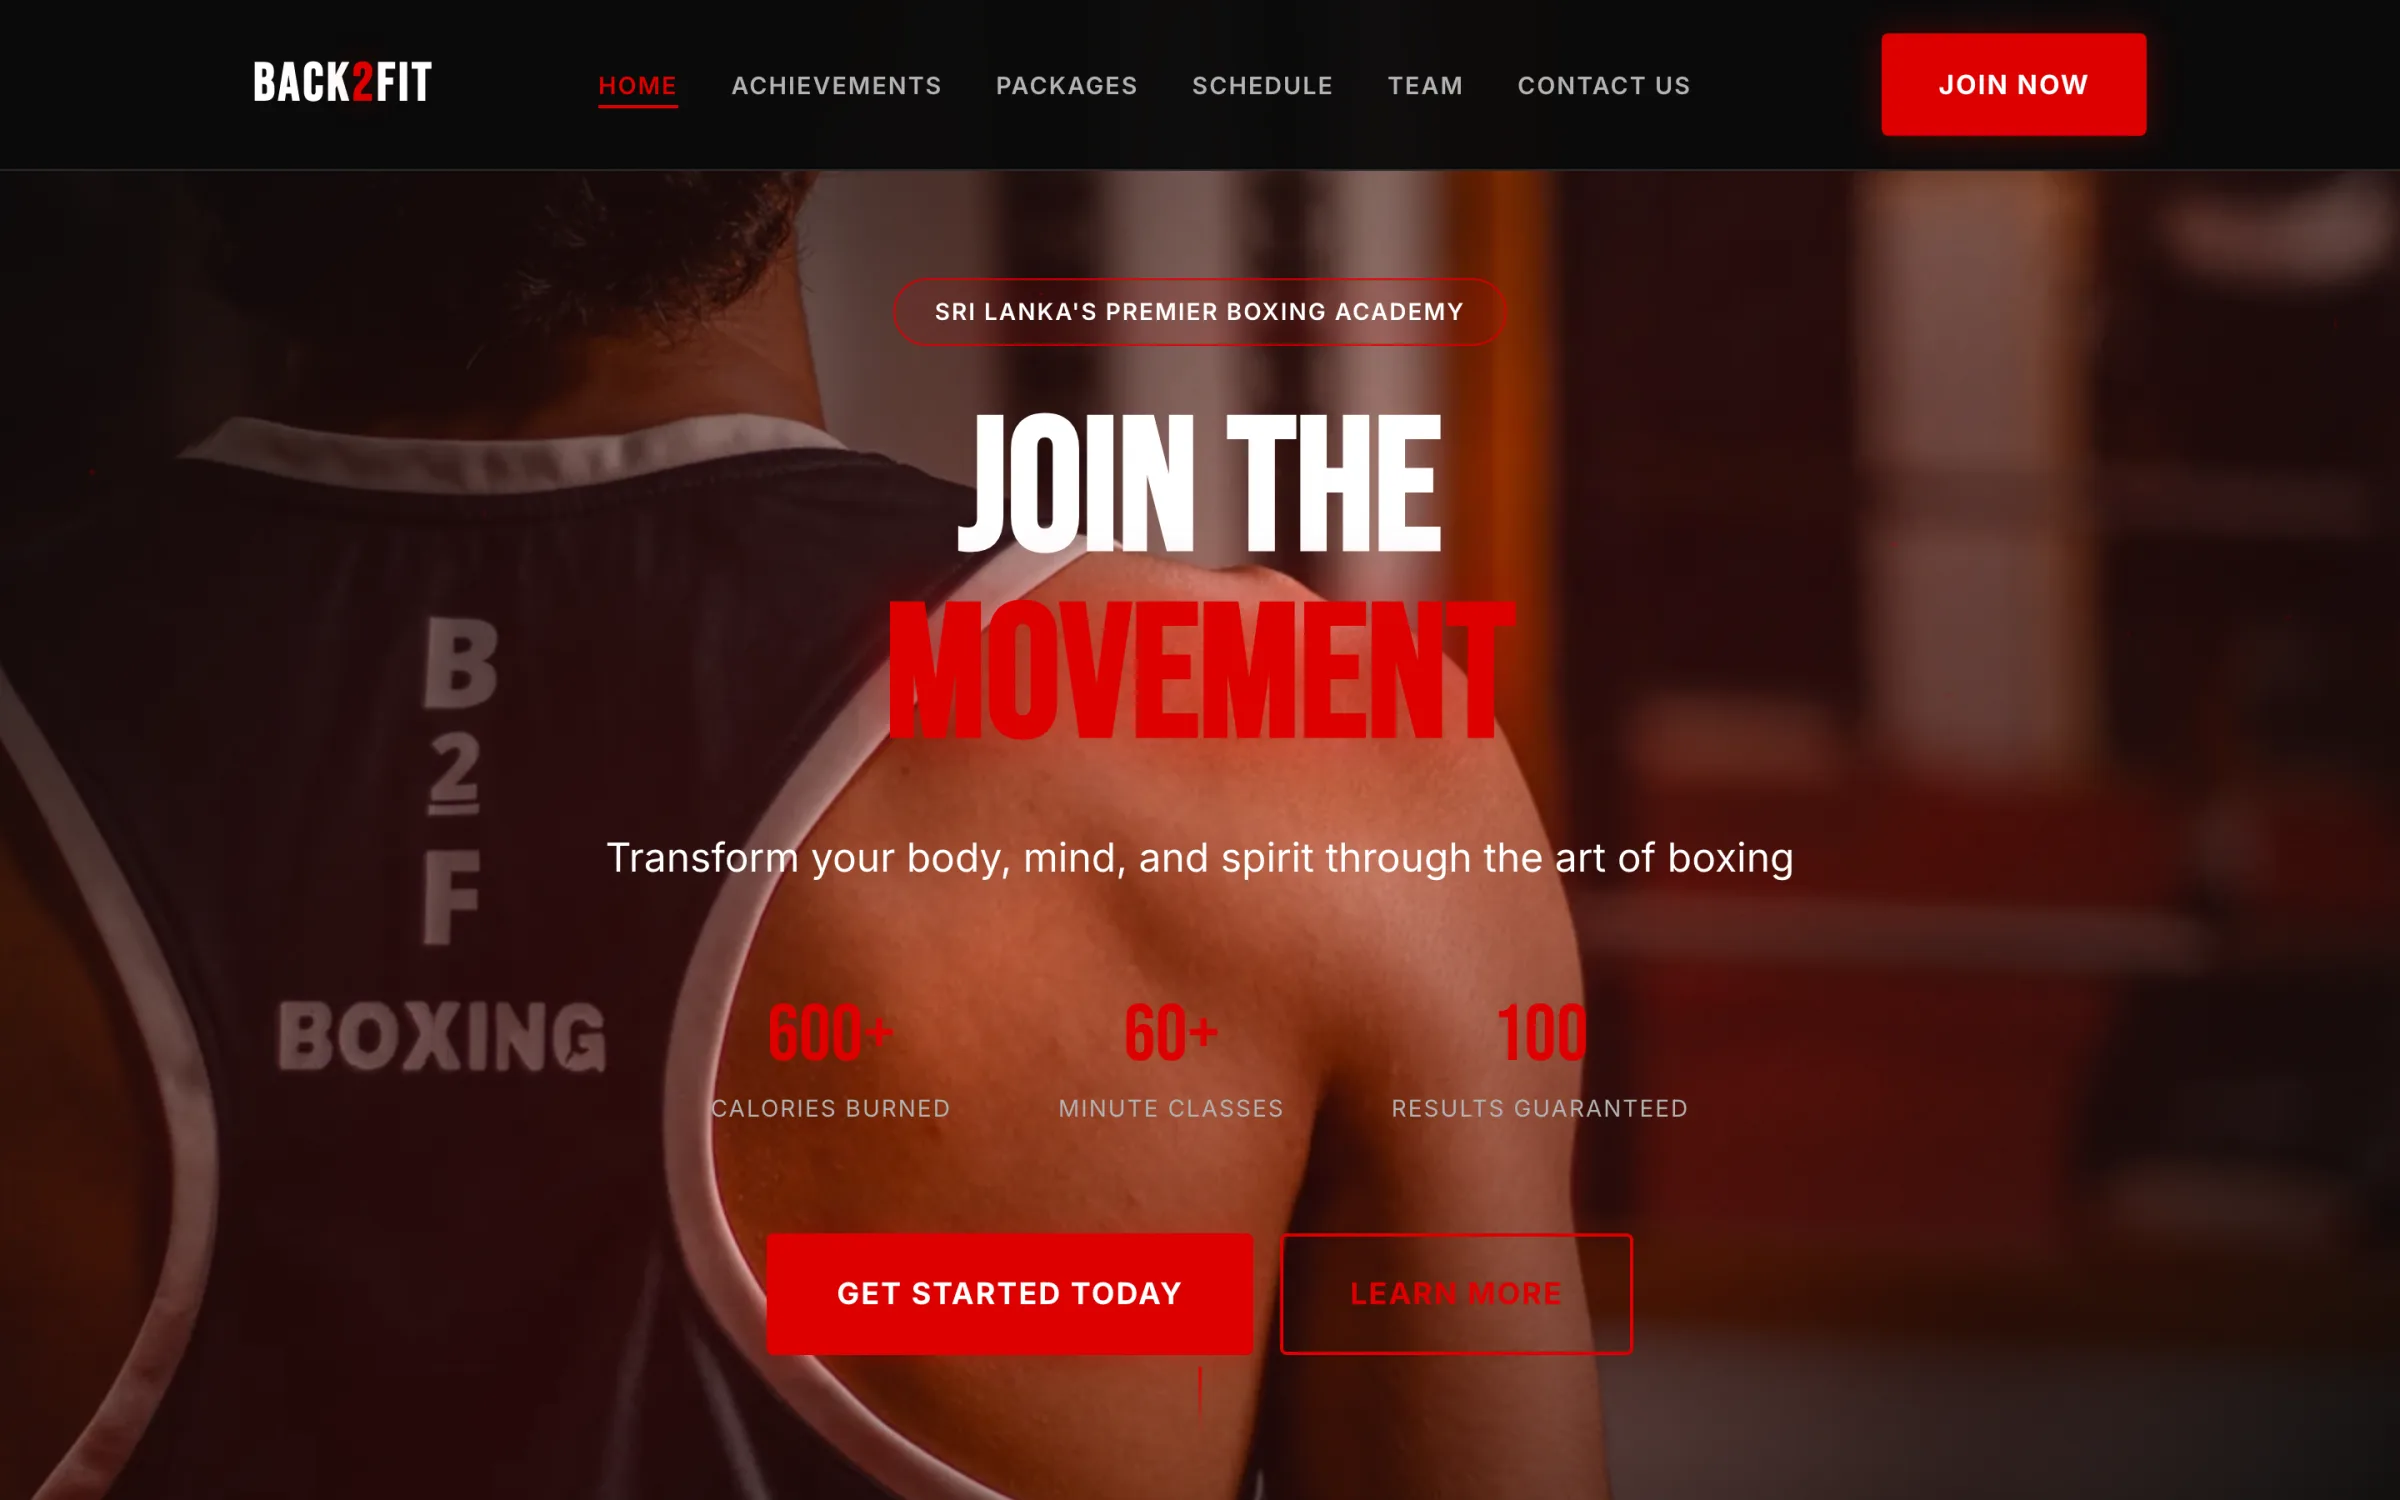
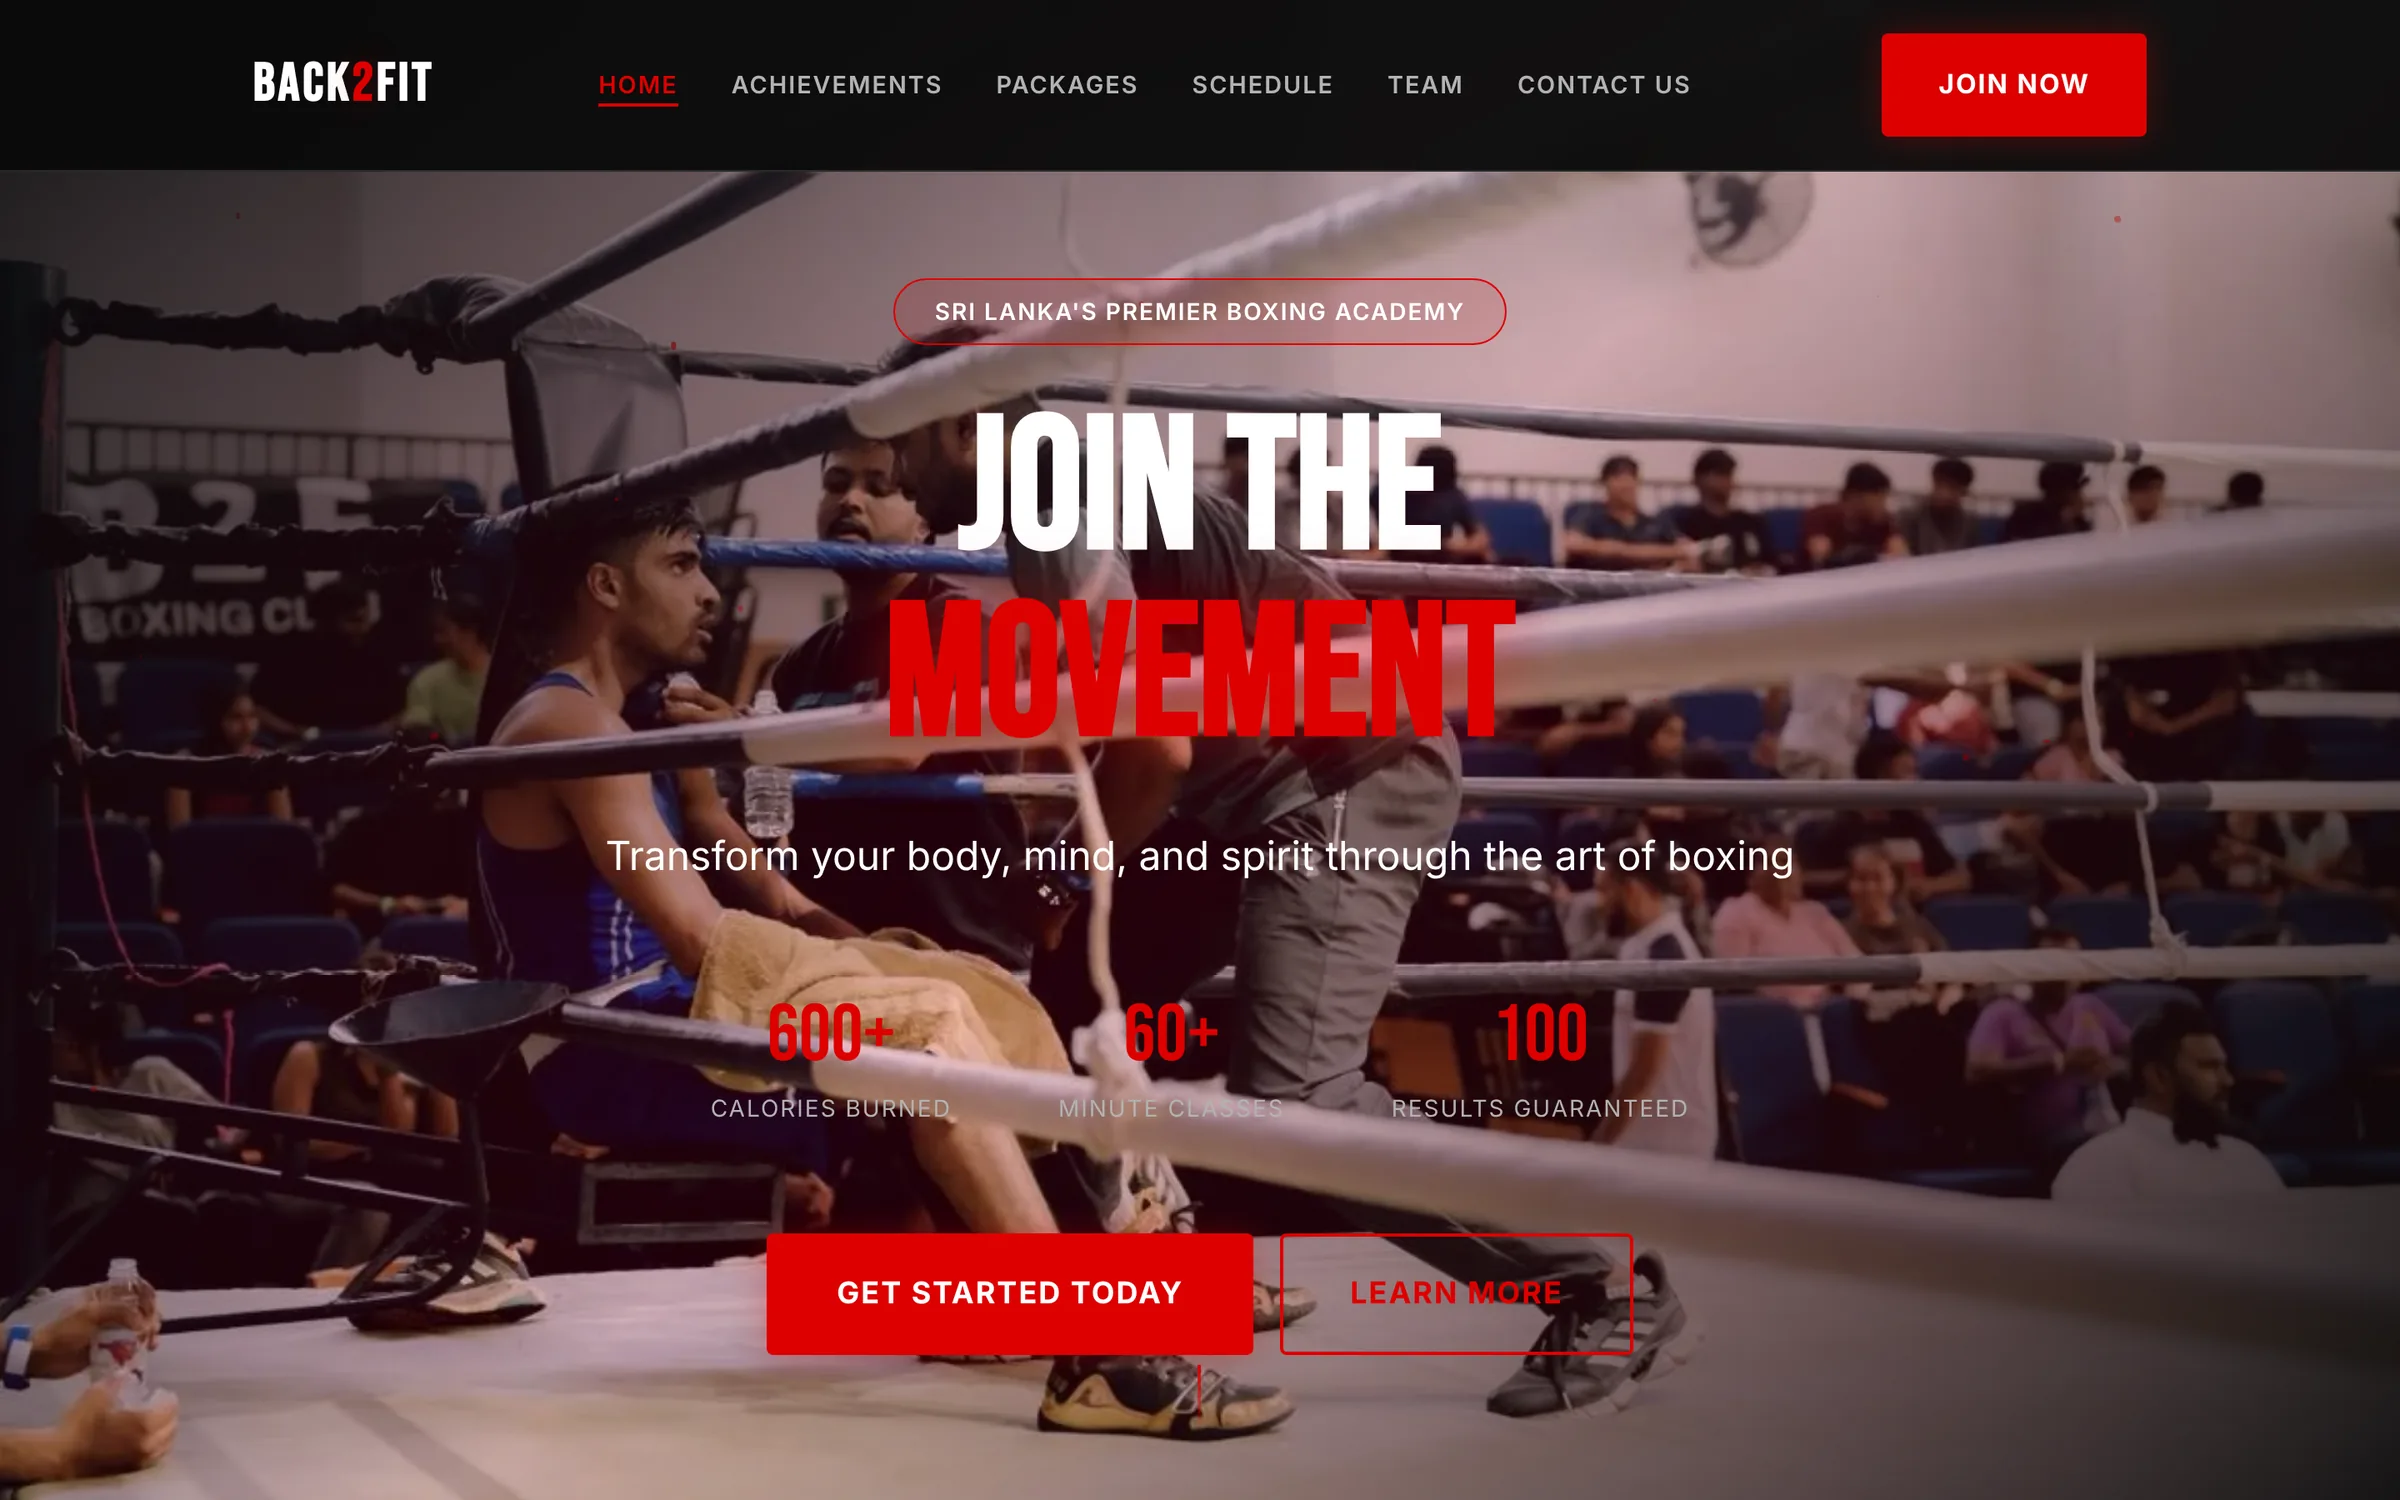
Showcase: fresh hero screenshots, add Creative Works and Fintra Finance
New 2400x1500 static hero screenshots for every showcase site, taken
from the live URLs. Creative Works Co. and Fintra Finance are back on the
wheel; the refreshed Aito Auto, Checklist, Fragrance Vault and Back2Fit
shots also update their case-study covers.

Claude-Session: https://claude.ai/code/session_01KTHfpdmmaEypE1fumDueP7

diff --git a/src/lib/content.ts b/src/lib/content.ts
@@ -442,7 +442,6 @@ export const PROJECTS: Project[] = [
     status: "Pre-release",
     accent: "#3C7EB9",
     image: "/work/aito-auto.webp",
-    imageSize: [2400, 1423],
     highlights: ["Finnish-language", "Self-managed listings", "Monthly price up front"],
   },
   {
@@ -512,17 +511,15 @@ export const SHOWCASE: ShowcaseSite[] = [
     kind: "Car dealership · Finland",
     accent: "#3C7EB9",
     image: "/work/aito-auto.webp",
-    imageSize: [2400, 1423],
     project: "aito-auto",
   },
-  // Add back once its screenshot is saved as public/work/creative-works.webp:
-  // {
-  //   title: "Creative Works Co.",
-  //   url: "https://web-production-828036a0.up.railway.app/",
-  //   kind: "Website",
-  //   accent: "#7B6CF6",
-  //   image: "/work/creative-works.webp",
-  // },
+  {
+    title: "Creative Works Co.",
+    url: "https://web-production-828036a0.up.railway.app/",
+    kind: "Video & photo studio · NZ",
+    accent: "#22B8CF",
+    image: "/work/creative-works.webp",
+  },
   {
     title: "Checklist.lk",
     url: "https://ckqfwhcrievgrv.checklist.lk/",
@@ -547,14 +544,13 @@ export const SHOWCASE: ShowcaseSite[] = [
     image: "/work/back2fit.webp",
     project: "back2fit",
   },
-  // Add back once its screenshot is saved as public/work/fintra-finance.webp:
-  // {
-  //   title: "Fintra Finance",
-  //   url: "https://fintrafinance.com.au",
-  //   kind: "Finance · Australia",
-  //   accent: "#2FB5A0",
-  //   image: "/work/fintra-finance.webp",
-  // },
+  {
+    title: "Fintra Finance",
+    url: "https://fintrafinance.com.au",
+    kind: "Finance broker · Australia",
+    accent: "#F5C431",
+    image: "/work/fintra-finance.webp",
+  },
 ];
 
 export const PROCESS = [

diff --git a/src/components/home/SiteWheel.tsx b/src/components/home/SiteWheel.tsx
@@ -116,7 +116,7 @@ export function SiteWheel() {
               </SplitReveal>
             </div>
             <p className="pointer-events-auto hidden max-w-sm text-paper/70 md:block">
-              Car dealers to perfume stores to boxing gyms. Keep scrolling to spin through sites we designed and built.
+              Car dealers to film crews, perfume to finance. Keep scrolling to spin through sites we designed and built.
             </p>
           </div>
 
@@ -269,7 +269,7 @@ function SiteInfo({ site, active }: { site: ShowcaseSite; active: number }) {
             · {site.kind}
           </span>
         </div>
-        <h3 className="display heavy mt-2 overflow-hidden pb-[0.08em] text-[clamp(1.7rem,3.2vw,3rem)]">
+        <h3 className="display heavy mt-2 overflow-hidden pb-[0.08em] text-[clamp(1.4rem,3.2vw,3rem)]">
           <span key={active} className="swap-in block truncate">
             {site.title}
           </span>
